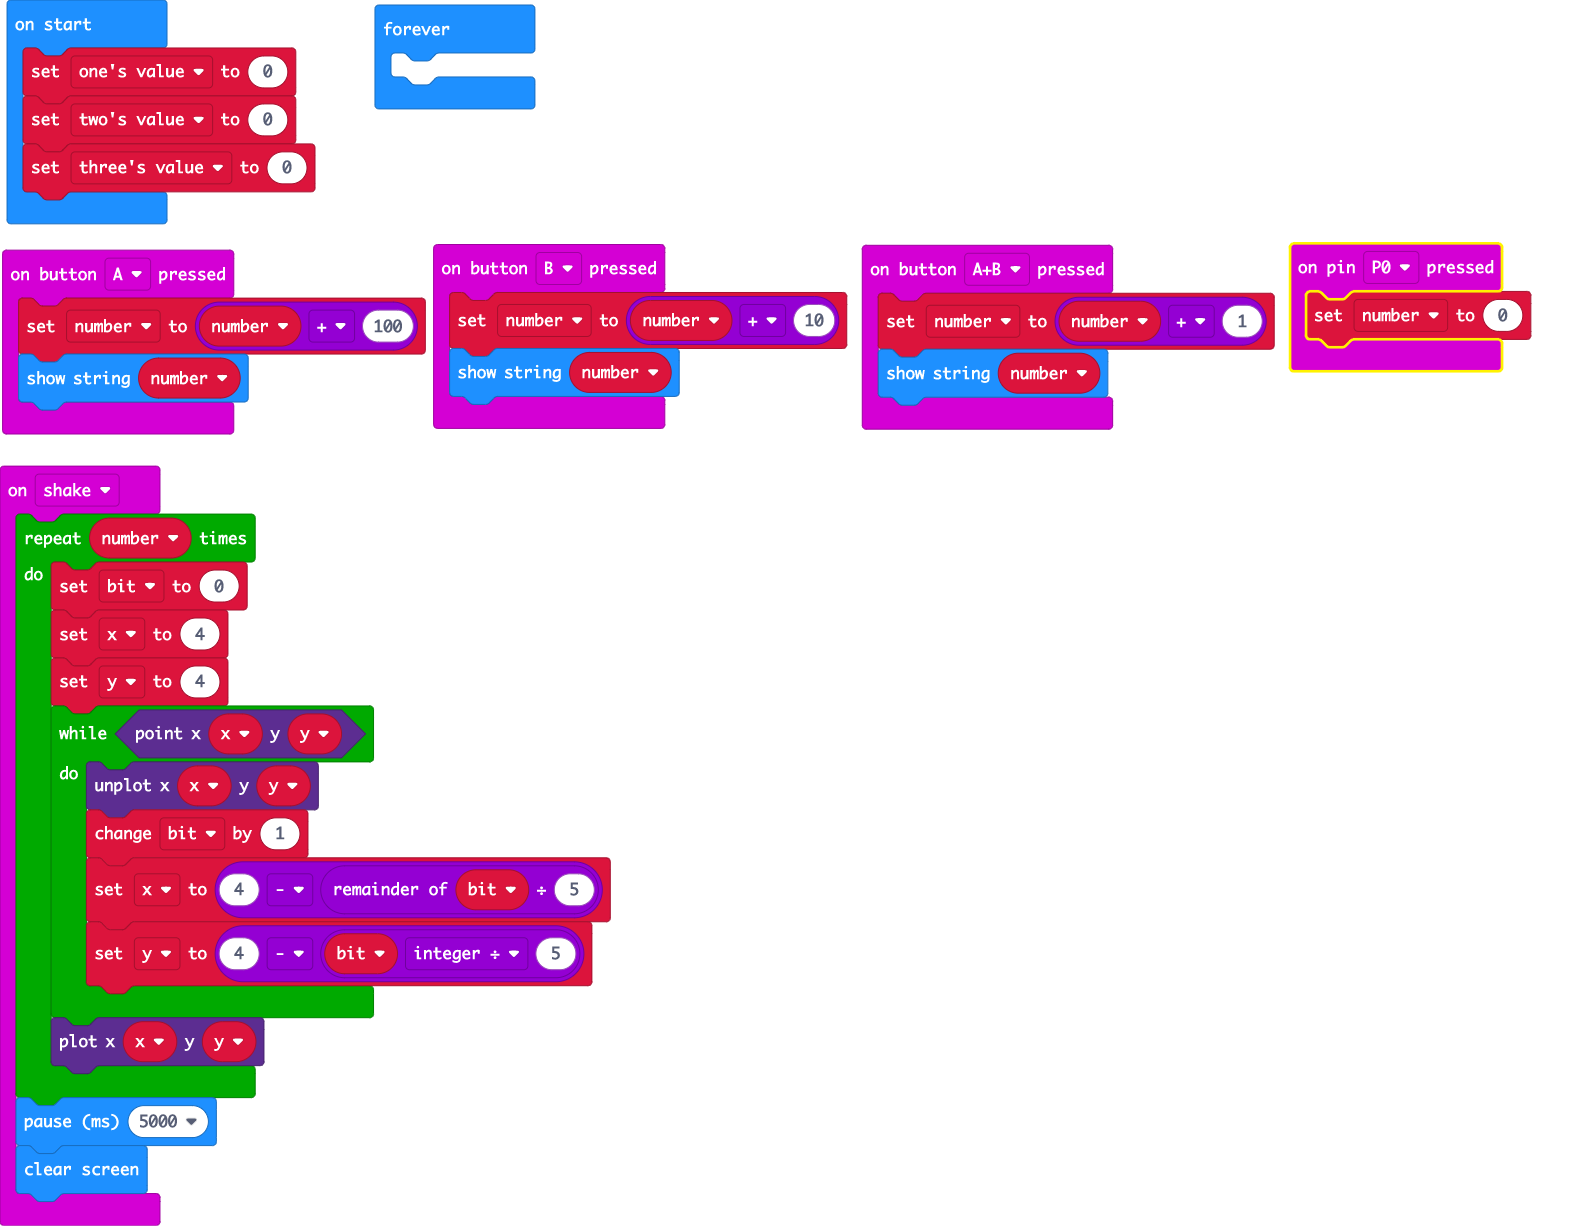
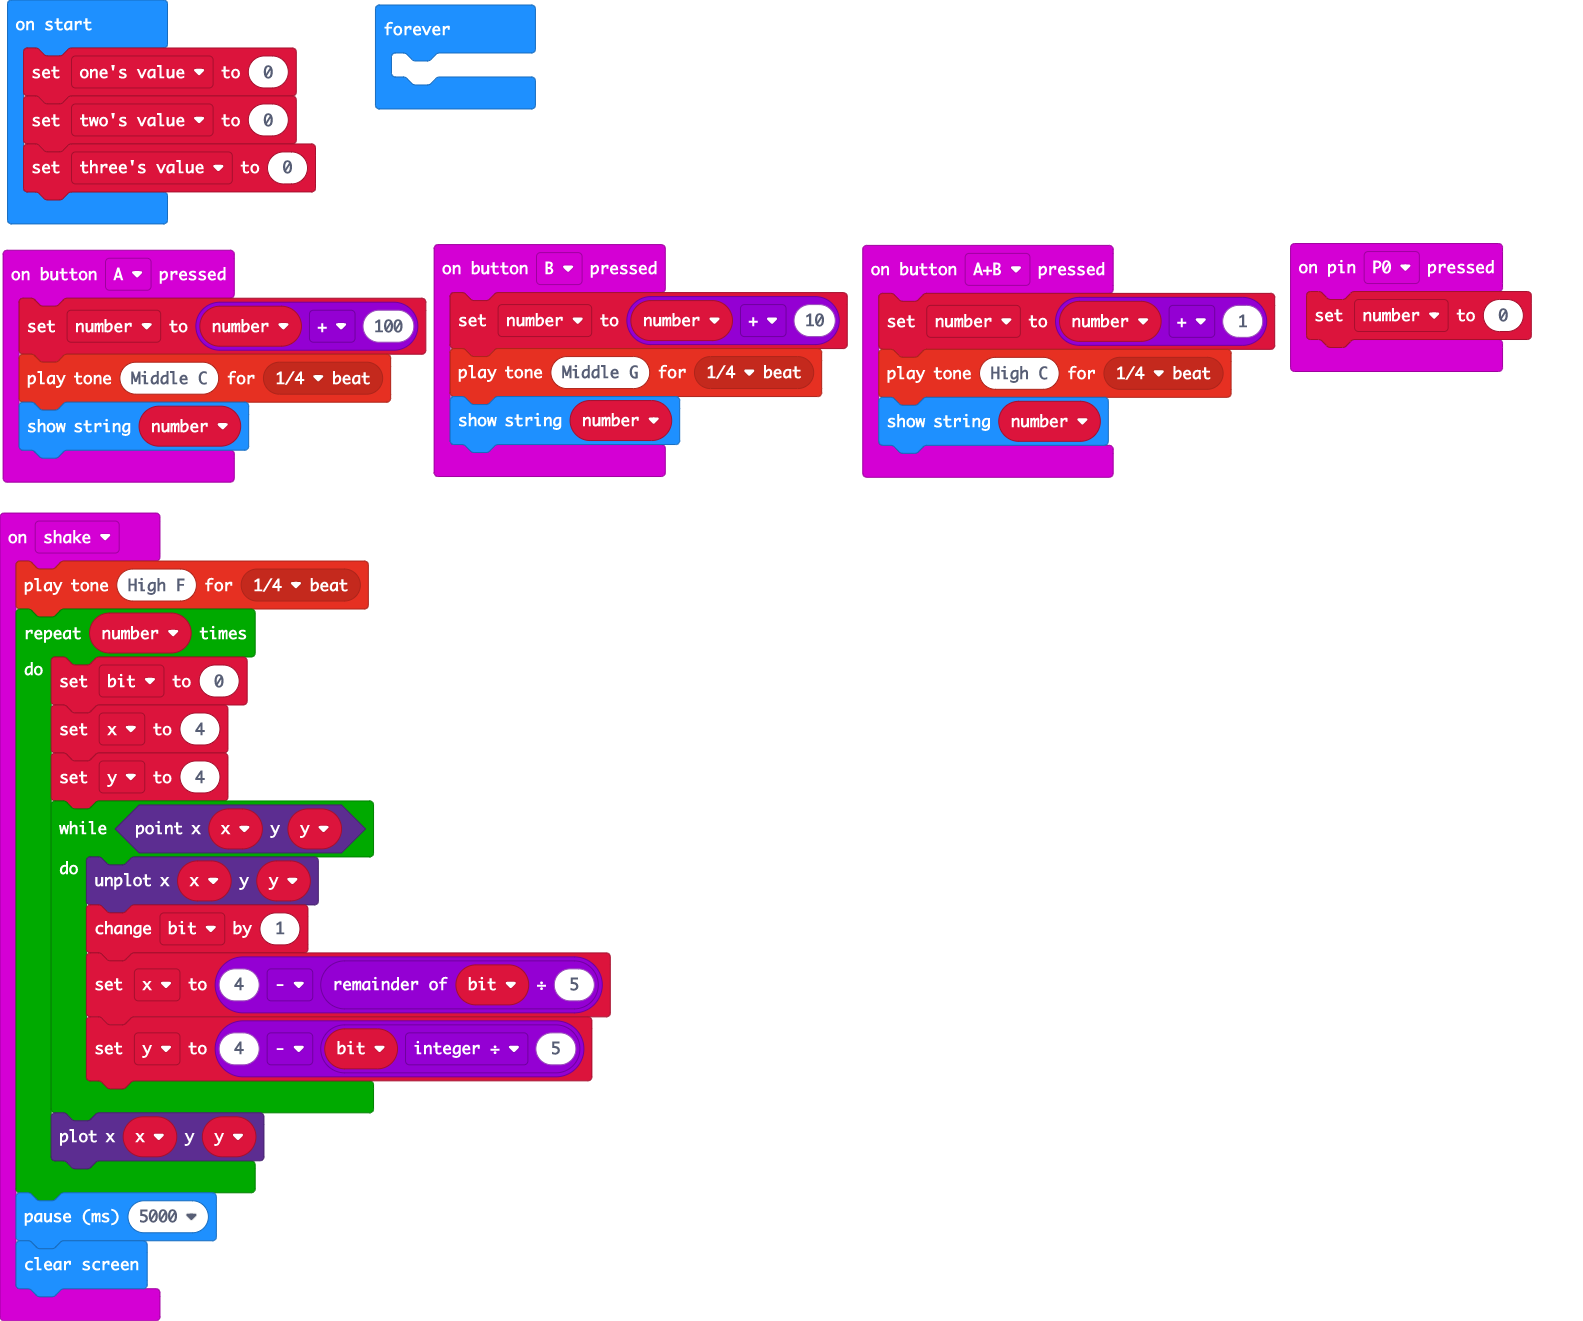
Update main.blocks, main.ts

Changed region(s): [[0.0, 0.0, 0.9905, 0.9918], [0.2167, 0.0, 0.3405, 0.093]]

diff --git a/main.ts b/main.ts
@@ -3,17 +3,21 @@ input.onPinPressed(TouchPin.P0, function () {
 })
 input.onButtonPressed(Button.A, function () {
     number = number + 100
+    music.playTone(262, music.beat(BeatFraction.Quarter))
     basic.showString("" + (number))
 })
 input.onButtonPressed(Button.AB, function () {
     number = number + 1
+    music.playTone(523, music.beat(BeatFraction.Quarter))
     basic.showString("" + (number))
 })
 input.onButtonPressed(Button.B, function () {
     number = number + 10
+    music.playTone(392, music.beat(BeatFraction.Quarter))
     basic.showString("" + (number))
 })
 input.onGesture(Gesture.Shake, function () {
+    music.playTone(698, music.beat(BeatFraction.Quarter))
     for (let index = 0; index < number; index++) {
         bit = 0
         x = 4
